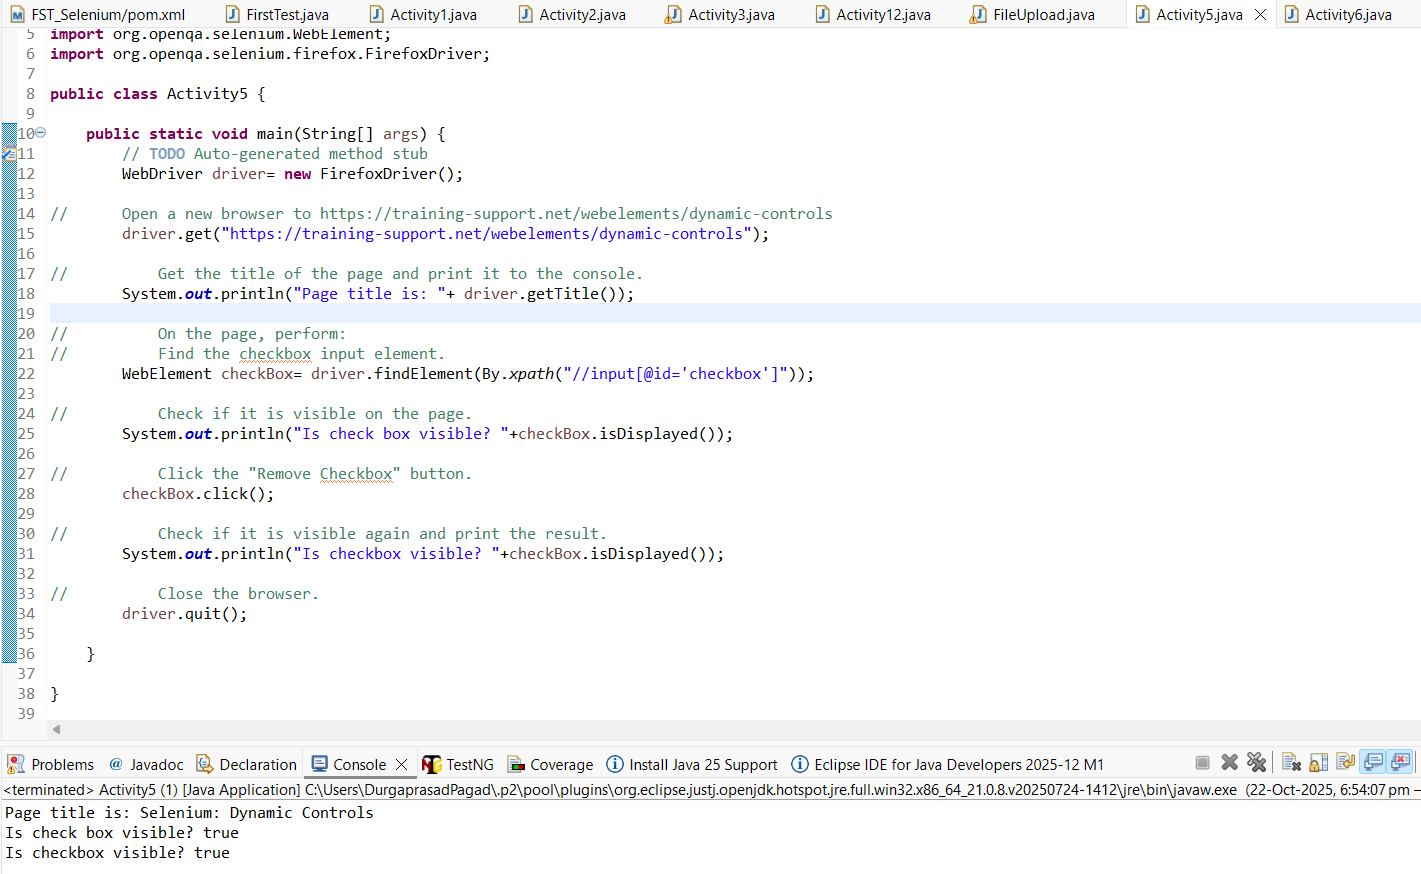
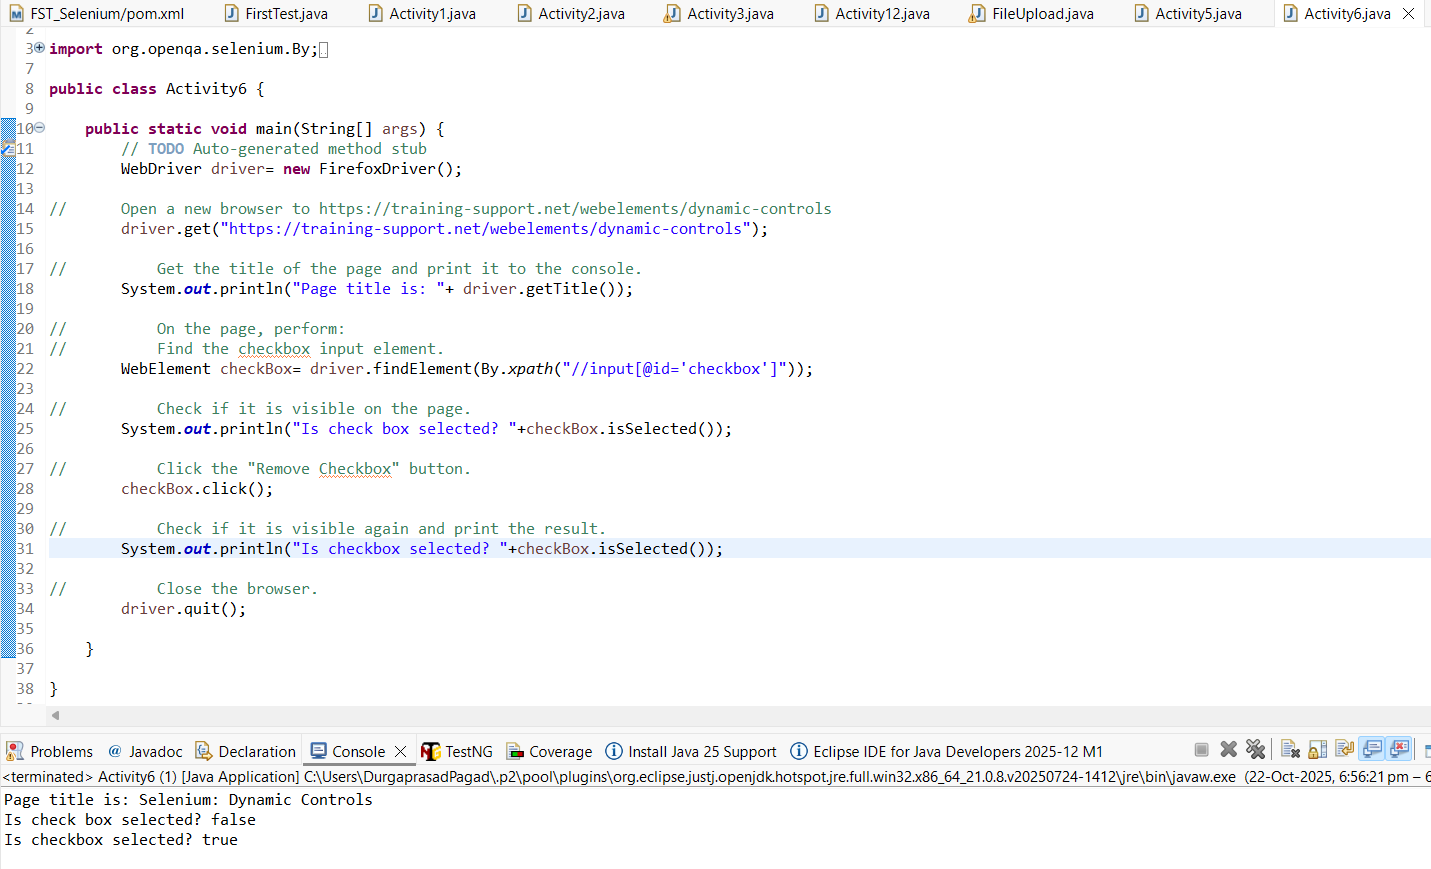
Activity6 - checkbox selection

diff --git a/Selenium/Activities/Activity6.java b/Selenium/Activities/Activity6.java
@@ -1,0 +1,38 @@
+package activities;
+
+import org.openqa.selenium.By;
+import org.openqa.selenium.WebDriver;
+import org.openqa.selenium.WebElement;
+import org.openqa.selenium.firefox.FirefoxDriver;
+
+public class Activity6 {
+
+	public static void main(String[] args) {
+		// TODO Auto-generated method stub
+		WebDriver driver= new FirefoxDriver();
+		
+//		Open a new browser to https://training-support.net/webelements/dynamic-controls
+		driver.get("https://training-support.net/webelements/dynamic-controls");
+		
+//			Get the title of the page and print it to the console.
+		System.out.println("Page title is: "+ driver.getTitle());
+		
+//			On the page, perform:
+//			Find the checkbox input element.
+		WebElement checkBox= driver.findElement(By.xpath("//input[@id='checkbox']"));
+		
+//			Check if it is visible on the page.
+		System.out.println("Is check box selected? "+checkBox.isSelected());
+		
+//			Click the "Remove Checkbox" button.
+		checkBox.click();
+		
+//			Check if it is visible again and print the result.
+		System.out.println("Is checkbox selected? "+checkBox.isSelected());
+		
+//			Close the browser.
+		driver.quit();
+
+	}
+
+}
